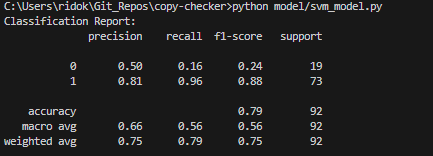
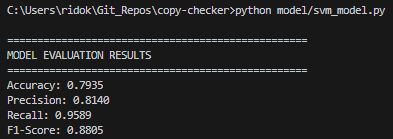
Enhance model evaluation metrics and update confusion matrix outputs for SVM and Logistic Regression; add new plagiarism report JSON files.

diff --git a/server/routes/fileRoutes.js b/server/routes/fileRoutes.js
@@ -136,7 +136,8 @@ router.post("/batch-upload", upload.single("zipfile"), async (req, res) => {
       return {
         filename: path.basename(f),
         path: f,
-        features
+        features,
+        tokenMap
       };
     });
 
@@ -159,12 +160,26 @@ router.post("/batch-upload", upload.single("zipfile"), async (req, res) => {
         // Add AST metrics for the second file in the pair
         const f1 = { ...fileData[i].features };
         const f2 = { ...fileData[j].features };
+
+        //token overlap
+        let overlapCount = 0;     
+        for (const [token, count] of fileData[i].tokenMap.entries()) {
+          if (fileData[j].tokenMap.has(token)) {
+            overlapCount += Math.min(count, fileData[j].tokenMap.get(token));
+          } 
+        }
+        f1['token_overlap'] = overlapCount;
+        f2['token_overlap'] = overlapCount;
+        
         f2['ast_levenshtein_distance'] = astLevenshteinDistance(fileData[i].path, fileData[j].path);
         f2['ast_levenshtein_similarity'] = astLevenshteinSimilarity(fileData[i].path, fileData[j].path);
+        f1['ast_levenshtein_distance'] = f2['ast_levenshtein_distance'];
+        f1['ast_levenshtein_similarity'] = f2['ast_levenshtein_similarity'];
         const vec1 = toVector(f1, allKeys);
         const vec2 = toVector(f2, allKeys);
         const featureVector = [...vec1, ...vec2];
-        // Use runPrediction with normalized vectors
+
+
         const result = await new Promise((resolve, reject) => {
           const py = spawn("python", ["model/predict_model2.py"]);
           let output = "";

diff --git a/model/nn_model.py b/model/nn_model.py
@@ -160,18 +160,8 @@ class CodePlagiarismDetector:
            
             abs_diff = np.abs(emb1 - emb2)
 
-            # Calculate cosine similarity
-            emb1 = np.array(emb1)
-            emb2 = np.array(emb2)
-
-            dot_product = np.dot(emb1, emb2)
-            magnitude_1 = np.linalg.norm(emb1)
-            magnitude_2 = np.linalg.norm(emb2)
-
-            similarity = dot_product / (magnitude_1 * magnitude_2)
-            
-
-            pair_features = np.concatenate([emb1, emb2, abs_diff])
+        
+            pair_features = np.concatenate([emb1, emb2])
             
             X.append(pair_features)
             y.append(label)
@@ -270,18 +260,8 @@ class CodePlagiarismDetector:
         emb2 = self.document_embedding(tokens2, self.w2v_model)
         
         abs_diff = np.abs(emb1 - emb2)
-
-        emb1 = np.array(emb1)
-        emb2 = np.array(emb2)
-
-        dot_product = np.dot(emb1, emb2)
-        magnitude_1 = np.linalg.norm(emb1)
-        magnitude_2 = np.linalg.norm(emb2)
-
-        similarity = dot_product / (magnitude_1 * magnitude_2)
-        
-        
-        pair_vector = np.concatenate([emb1, emb2, abs_diff]).reshape(1, -1)
+                
+        pair_vector = np.concatenate([emb1, emb2]).reshape(1, -1)
         
         probability = self.nn_model.predict(pair_vector, verbose=0)[0][0]
         
@@ -292,16 +272,13 @@ class CodePlagiarismDetector:
         """Save trained models to disk"""
         self.w2v_model.save(w2v_path)
         self.nn_model.save(nn_path)
-        print(f"Models saved to {w2v_path} and {nn_path}", file=sys.stderr)
     
     def load_models(self, w2v_path="code_w2v.model", nn_path="plagiarism_nn.h5"):
-        """Load trained models from disk"""
         from gensim.models import Word2Vec
         from tensorflow.keras.models import load_model
         
         self.w2v_model = Word2Vec.load(w2v_path)
         self.nn_model = load_model(nn_path)
-        print(f"Models loaded from {w2v_path} and {nn_path}", file=sys.stderr)
 
 
 if __name__ == "__main__":

diff --git a/model/svm_model.py b/model/svm_model.py
@@ -2,7 +2,7 @@ import json
 import numpy as np
 from sklearn.model_selection import train_test_split
 from sklearn.svm import SVC
-from sklearn.metrics import classification_report, confusion_matrix
+from sklearn.metrics import confusion_matrix, accuracy_score, precision_recall_fscore_support
 import joblib
 import matplotlib.pyplot as plt
 import seaborn as sns
@@ -18,15 +18,21 @@ y = np.array([item['label'] for item in data])
 X_train, X_test, y_train, y_test = train_test_split(X, y, test_size=0.2, random_state=42)
 
 # Train SVM model
-svm = SVC(kernel='rbf', probability=True, class_weight='balanced', random_state=42)
+svm = SVC(probability=True, class_weight='balanced', random_state=42)
 svm.fit(X_train, y_train)
 
-# Evaluate
+ # Evaluate the model
 y_pred = svm.predict(X_test)
-print('Classification Report:')
-print(classification_report(y_test, y_pred))
-print('Confusion Matrix:')
-print(confusion_matrix(y_test, y_pred))
+accuracy = accuracy_score(y_test, y_pred)
+precision, recall, f1, _ = precision_recall_fscore_support(y_test, y_pred, average='binary')
+
+print("\n" + "="*50)
+print("MODEL EVALUATION RESULTS")
+print("="*50)
+print(f"Accuracy: {accuracy:.4f}")
+print(f"Precision: {precision:.4f}")
+print(f"Recall: {recall:.4f}")
+print(f"F1-Score: {f1:.4f}")
 
 # Plot and save confusion matrix
 cm = confusion_matrix(y_test, y_pred)

diff --git a/model/LogisticRegression_model.py b/model/LogisticRegression_model.py
@@ -2,7 +2,7 @@ import json
 import numpy as np
 from sklearn.linear_model import LogisticRegression
 from sklearn.model_selection import train_test_split
-from sklearn.metrics import accuracy_score, classification_report, confusion_matrix
+from sklearn.metrics import accuracy_score, confusion_matrix, precision_recall_fscore_support
 import joblib
 import matplotlib.pyplot as plt
 import seaborn as sns
@@ -23,12 +23,16 @@ model.fit(X_train, y_train)
 
 # Evaluate
 y_pred = model.predict(X_test)
-acc = accuracy_score(y_test, y_pred)
-print('Accuracy:', acc)
-print('Classification Report:')
-print(classification_report(y_test, y_pred))
-print('Confusion Matrix:')
-print(confusion_matrix(y_test, y_pred))
+accuracy = accuracy_score(y_test, y_pred)
+precision, recall, f1, _ = precision_recall_fscore_support(y_test, y_pred, average='binary')
+
+print("\n" + "="*50)
+print("MODEL EVALUATION RESULTS")
+print("="*50)
+print(f"Accuracy: {accuracy:.4f}")
+print(f"Precision: {precision:.4f}")
+print(f"Recall: {recall:.4f}")
+print(f"F1-Score: {f1:.4f}")
 
 # Plot and save confusion matrix
 cm = confusion_matrix(y_test, y_pred)

diff --git a/model/xgboost_model.py b/model/xgboost_model.py
@@ -1,9 +1,8 @@
 import json
 import numpy as np
 import pandas as pd
-from sklearn.model_selection import train_test_split, cross_val_score, GridSearchCV
+from sklearn.model_selection import train_test_split, GridSearchCV
 from sklearn.metrics import classification_report, confusion_matrix, accuracy_score, precision_recall_fscore_support
-from sklearn.preprocessing import StandardScaler
 import xgboost as xgb
 import joblib
 import matplotlib.pyplot as plt
